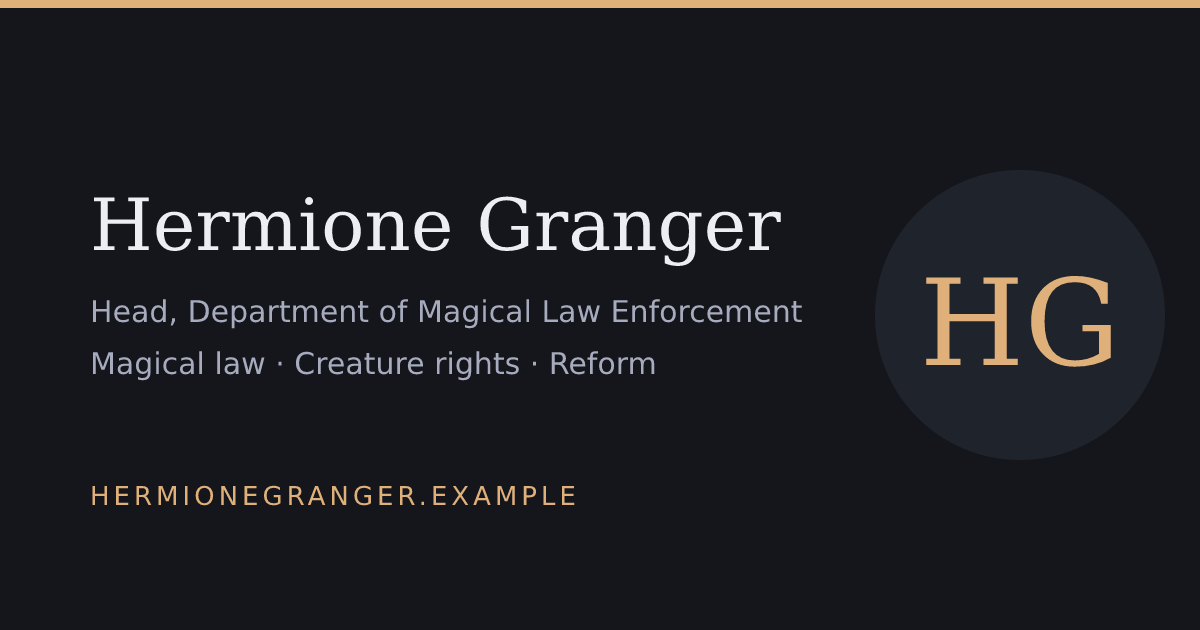
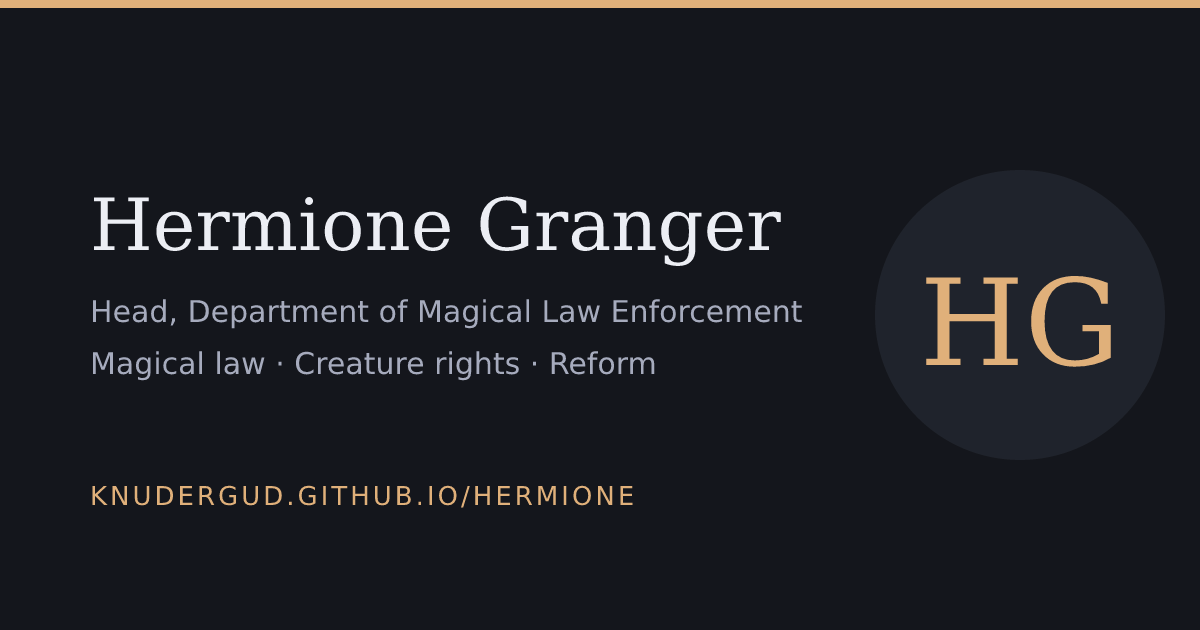
Fix the site for its GitHub Pages project URL
The Pages build was succeeding and its artifact did contain index.html, so the
home page showing the repository name was the earlier deploy from the initial
commit, when Jekyll's readme-index rendered README.md with the primer theme.
Two real problems remained, both from the site living at a project path rather
than a domain root.

- Add .nojekyll, so Pages publishes the files as they are. Jekyll was otherwise
  injecting a generated assets/css/style.css, and any commit without an
  index.html would be served as README.md under the primer theme.
- Point every absolute URL at https://knudergud.github.io/hermione/ instead of
  the placeholder domain: canonical, Open Graph, JSON-LD, robots.txt,
  sitemap.xml, and the social card footer (PNG regenerated).
- 404.html referenced /assets/... and /, which resolve outside the project path
  and left the page unstyled. Its absolute paths now carry the /hermione/
  prefix; they stay absolute because a 404 can be served at any depth.
- site.webmanifest used absolute icon and start_url paths for the same reason.
  They are relative now, which is correct at a project path and at a root.

Verified against a local server that mirrors the project path: home page and
404 both render fully styled, no failed requests or console errors, and
axe-core reports zero violations on both.

README documents why .nojekyll is there and what to change for a custom domain.

Claude-Session: https://claude.ai/code/session_01RBapaThnCpA9XVBw6pxum6

Changed region(s): [[0.0617, 0.754, 0.5242, 0.8143]]

diff --git a/index.html b/index.html
@@ -9,14 +9,14 @@
 <meta name="color-scheme" content="light dark">
 <meta name="theme-color" content="#f7f5f0" media="(prefers-color-scheme: light)">
 <meta name="theme-color" content="#14161c" media="(prefers-color-scheme: dark)">
-<link rel="canonical" href="https://hermionegranger.example/">
+<link rel="canonical" href="https://knudergud.github.io/hermione/">
 
 <meta property="og:type" content="profile">
 <meta property="og:site_name" content="Hermione Granger">
 <meta property="og:title" content="Hermione Granger — Magical Law &amp; Creature Rights">
 <meta property="og:description" content="Head of the Department of Magical Law Enforcement. Legislative reform, creature-rights advocacy, and research in magical jurisprudence.">
-<meta property="og:url" content="https://hermionegranger.example/">
-<meta property="og:image" content="https://hermionegranger.example/assets/img/og-card.png">
+<meta property="og:url" content="https://knudergud.github.io/hermione/">
+<meta property="og:image" content="https://knudergud.github.io/hermione/assets/img/og-card.png">
 <meta property="og:image:alt" content="Hermione Granger, magical law and creature rights.">
 <meta property="og:locale" content="en_GB">
 <meta name="twitter:card" content="summary_large_image">
@@ -41,12 +41,12 @@
   "@context": "https://schema.org",
   "@type": "Person",
   "name": "Hermione Jean Granger",
-  "url": "https://hermionegranger.example/",
+  "url": "https://knudergud.github.io/hermione/",
   "jobTitle": "Head of the Department of Magical Law Enforcement",
   "worksFor": { "@type": "Organization", "name": "Ministry of Magic" },
   "alumniOf": { "@type": "EducationalOrganization", "name": "Hogwarts School of Witchcraft and Wizardry" },
   "knowsAbout": ["Magical jurisprudence", "Creature rights", "Legislative reform", "Ancient runes", "Arithmancy"],
-  "sameAs": ["https://hermionegranger.example/"]
+  "sameAs": ["https://knudergud.github.io/hermione/"]
 }
 </script>
 </head>
@@ -323,9 +323,9 @@
         <a class="btn btn-ghost" href="assets/hermione-granger-cv.pdf">Download CV (PDF)</a>
       </p>
       <ul class="social" aria-label="Elsewhere">
-        <li><a href="https://hermionegranger.example/" rel="me">Ministry profile</a></li>
-        <li><a href="https://hermionegranger.example/" rel="me noopener">Publications index</a></li>
-        <li><a href="https://hermionegranger.example/" rel="me noopener">S.P.E.W. archive</a></li>
+        <li><a href="https://knudergud.github.io/hermione/" rel="me">Ministry profile</a></li>
+        <li><a href="https://knudergud.github.io/hermione/" rel="me noopener">Publications index</a></li>
+        <li><a href="https://knudergud.github.io/hermione/" rel="me noopener">S.P.E.W. archive</a></li>
       </ul>
     </div>
   </section>

diff --git a/404.html b/404.html
@@ -4,11 +4,13 @@
 <meta charset="utf-8">
 <meta name="viewport" content="width=device-width, initial-scale=1">
 <title>Page not found — Hermione Granger</title>
-<meta name="description" content="That page does not exist on hermionegranger.example.">
+<meta name="description" content="That page does not exist on this site.">
 <meta name="robots" content="noindex">
+<!-- A 404 can be served at any depth, so these paths are absolute. The /hermione/ prefix is
+     the GitHub Pages project path; drop it if the site moves to the root of a custom domain. -->
 <meta name="color-scheme" content="light dark">
-<link rel="icon" href="/assets/img/favicon.svg" type="image/svg+xml">
-<link rel="stylesheet" href="/assets/css/styles.css">
+<link rel="icon" href="/hermione/assets/img/favicon.svg" type="image/svg+xml">
+<link rel="stylesheet" href="/hermione/assets/css/styles.css">
 </head>
 <body>
 <a class="skip-link" href="#main">Skip to main content</a>
@@ -20,8 +22,8 @@
       Even a properly kept archive loses something eventually. The page you asked for is not here.
     </p>
     <p class="contact-links">
-      <a class="btn btn-primary" href="/">Back to the homepage</a>
-      <a class="btn btn-ghost" href="/#contact">Report a broken link</a>
+      <a class="btn btn-primary" href="/hermione/">Back to the homepage</a>
+      <a class="btn btn-ghost" href="/hermione/#contact">Report a broken link</a>
     </p>
   </div>
 </main>

diff --git a/README.md b/README.md
@@ -62,16 +62,16 @@ tools/make-cv.py            regenerates the CV PDF (standard library only)
 
 ## Before this goes live
 
-The content is a portfolio for a fictional person and the site is wired to a
-placeholder domain. Replace, in this order:
+The site is live at <https://knudergud.github.io/hermione/> and every URL in it
+points there. The content is still a portfolio for a fictional person. Replace,
+in this order:
 
-1. `hermionegranger.example` — appears in `index.html` (canonical, Open Graph, JSON-LD),
-   `robots.txt`, `sitemap.xml`, and `assets/img/og-card.svg`.
-2. `hello@hermionegranger.example` and the three "Elsewhere" links in the contact section.
-3. `assets/img/portrait.svg` — swap in a real photograph, keeping the `width`/`height`
+1. `hello@hermionegranger.example` and the three "Elsewhere" links in the contact
+   section, which do not resolve.
+2. `assets/img/portrait.svg` — swap in a real photograph, keeping the `width`/`height`
    attributes accurate so the layout does not shift.
-4. `assets/hermione-granger-cv.pdf` — the generated file is a placeholder; drop in the real CV.
-5. `sitemap.xml` `lastmod`, whenever the content changes.
+3. `assets/hermione-granger-cv.pdf` — the generated file is a placeholder; drop in the real CV.
+4. `sitemap.xml` `lastmod`, whenever the content changes.
 
 After changing either SVG that has a PNG twin, regenerate them:
 
@@ -82,6 +82,24 @@ node tools/render-images.mjs
 
 ## Deploying
 
-The repository root is the document root, so it can be served as-is by GitHub
-Pages, Netlify, Cloudflare Pages, or any bucket behind a CDN. Serve `404.html`
-as the not-found page and keep `index.html` at the root.
+The repository root is the document root, so GitHub Pages serves it directly
+from `main` with no build step.
+
+`.nojekyll` at the root turns Jekyll off. Without it, Pages runs the repository
+through Jekyll with the primer theme, which injects a generated
+`assets/css/style.css`, and which will render `README.md` as the home page for
+any commit that has no `index.html`. Keep the file.
+
+Paths are relative everywhere except `404.html`, because a not-found page can be
+served at any depth and relative paths would resolve against the missing URL. Its
+three absolute paths carry the `/hermione/` project prefix.
+
+### Moving to a custom domain
+
+1. Drop the `/hermione/` prefix from the three absolute paths in `404.html`.
+2. Replace `https://knudergud.github.io/hermione/` with the new origin in
+   `index.html` (canonical, Open Graph, JSON-LD), `robots.txt`, `sitemap.xml`,
+   and the footer text of `assets/img/og-card.svg`, then re-run `tools/render-images.mjs`.
+3. Add a `CNAME` file at the root containing the bare domain.
+
+The relative paths in `index.html` and `site.webmanifest` need no changes either way.
